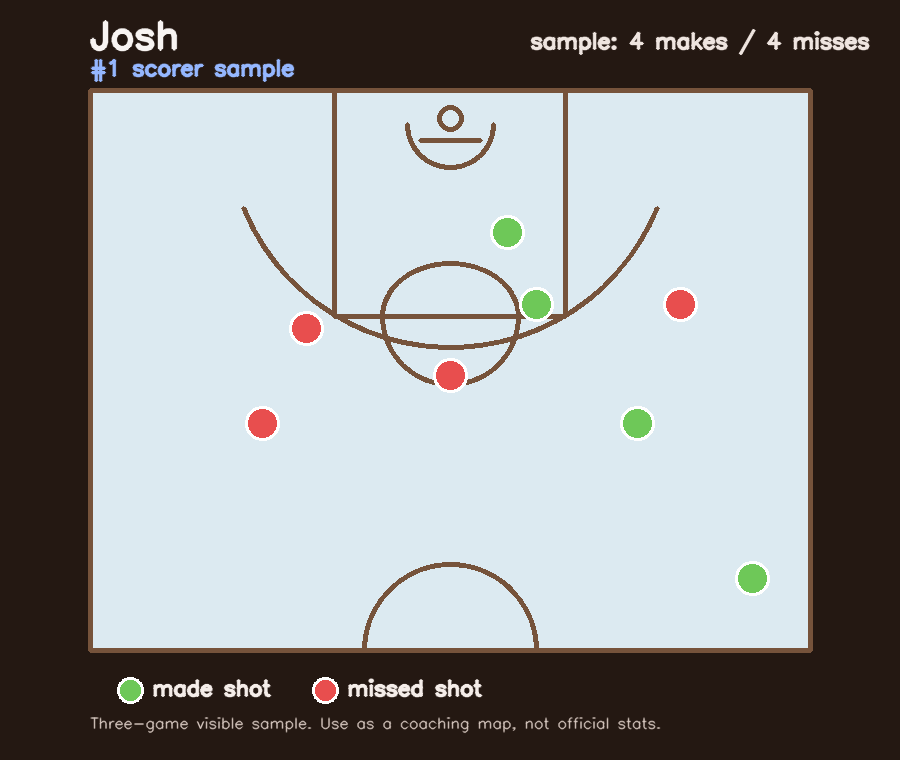
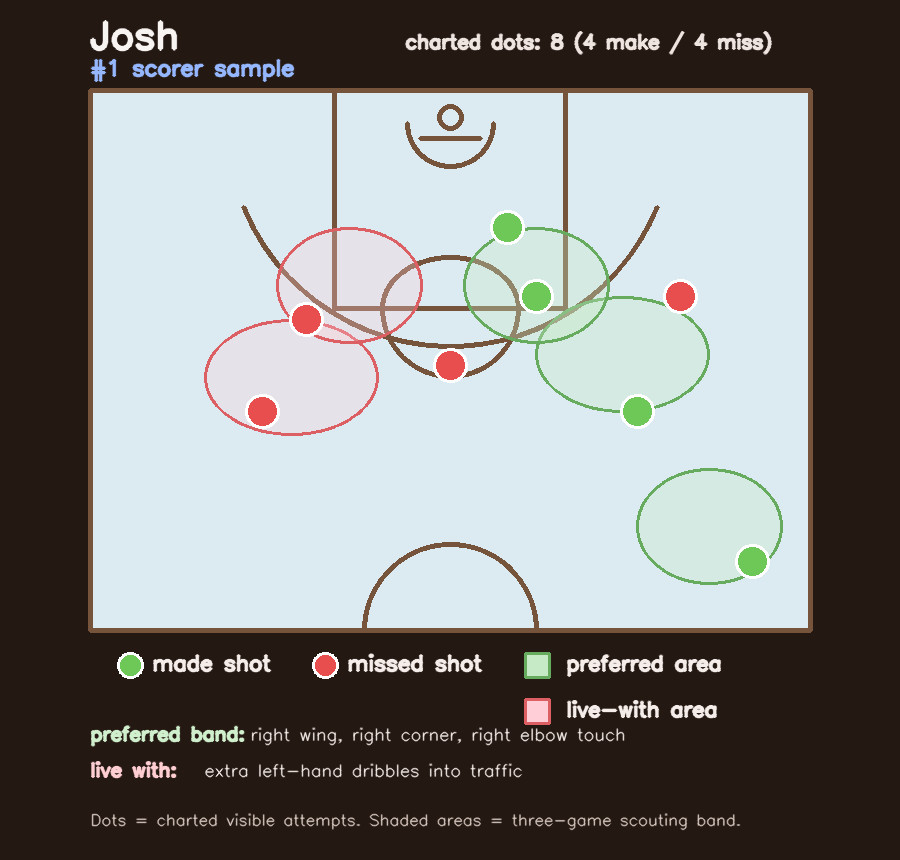
Upgrade scouting charts with zone overlays

diff --git a/index.html b/index.html
@@ -305,10 +305,11 @@
         <p>
           The green and red shot charts below come from the three games you selected, but they are
           still a visible tape sample rather than a full every-attempt hand chart. Green dots are
-          makes, red dots are misses, and the tactical / technical notes are the more important
-          layer right now. As more games come in, update role, shot source, and live-with zones
-          first; photo cleanup can happen later. Jersey numbers above reflect your confirmed map
-          from May 17, 2026.
+          makes, red dots are misses, green shaded areas mark the most reliable scoring bands, and
+          red shaded areas show the shot types or locations we can most comfortably live with.
+          As more games come in, update role, shot source, and live-with zones first; photo
+          cleanup can happen later. Jersey numbers above reflect your confirmed map from May 17,
+          2026.
         </p>
       </section>
     </main>

diff --git a/build_shot_charts.py b/build_shot_charts.py
@@ -10,11 +10,11 @@ DATA_PATH = ROOT / "shot_chart_data.json"
 OUT_DIR = ROOT / "assets" / "plots"
 
 WIDTH = 900
-HEIGHT = 760
+HEIGHT = 860
 MARGIN_X = 90
 MARGIN_TOP = 90
 COURT_W = WIDTH - (MARGIN_X * 2)
-COURT_H = 560
+COURT_H = 540
 
 MAKE_COLOR = (88, 200, 110)
 MISS_COLOR = (78, 78, 232)
@@ -24,6 +24,10 @@ TEXT_DARK = (35, 41, 53)
 TEXT_MID = (86, 93, 112)
 TEXT_LIGHT = (233, 237, 245)
 TEXT_SOFT = (194, 202, 217)
+PREFERRED_FILL = (198, 233, 198)
+PREFERRED_LINE = (95, 171, 103)
+LIVE_FILL = (214, 206, 255)
+LIVE_LINE = (99, 95, 219)
 
 
 def load_data():
@@ -87,7 +91,7 @@ def draw_court(canvas):
 
 
 def draw_legend(canvas):
-    legend_y = 690
+    legend_y = 665
 
     cv2.circle(canvas, (130, legend_y), 12, MAKE_COLOR, -1)
     cv2.circle(canvas, (130, legend_y), 12, (255, 255, 255), 2)
@@ -96,6 +100,40 @@ def draw_legend(canvas):
     cv2.circle(canvas, (325, legend_y), 12, MISS_COLOR, -1)
     cv2.circle(canvas, (325, legend_y), 12, (255, 255, 255), 2)
     cv2.putText(canvas, "missed shot", (347, legend_y + 5), cv2.FONT_HERSHEY_SIMPLEX, 0.7, TEXT_LIGHT, 2, cv2.LINE_AA)
+
+    cv2.rectangle(canvas, (525, legend_y - 12), (549, legend_y + 12), PREFERRED_FILL, -1)
+    cv2.rectangle(canvas, (525, legend_y - 12), (549, legend_y + 12), PREFERRED_LINE, 2)
+    cv2.putText(canvas, "preferred area", (566, legend_y + 5), cv2.FONT_HERSHEY_SIMPLEX, 0.68, TEXT_LIGHT, 2, cv2.LINE_AA)
+
+    cv2.rectangle(canvas, (525, legend_y + 34), (549, legend_y + 58), LIVE_FILL, -1)
+    cv2.rectangle(canvas, (525, legend_y + 34), (549, legend_y + 58), LIVE_LINE, 2)
+    cv2.putText(canvas, "live-with area", (566, legend_y + 51), cv2.FONT_HERSHEY_SIMPLEX, 0.68, TEXT_LIGHT, 2, cv2.LINE_AA)
+
+
+def blend_zone(canvas, zone):
+    overlay = canvas.copy()
+    px, py = court_xy(zone["x"], zone["y"])
+    rx = int((zone["rx"] / 50.0) * COURT_W)
+    ry = int((zone["ry"] / 47.0) * COURT_H)
+
+    if zone["tone"] == "preferred":
+        fill = PREFERRED_FILL
+        line = PREFERRED_LINE
+        alpha = 0.34
+    else:
+        fill = LIVE_FILL
+        line = LIVE_LINE
+        alpha = 0.30
+
+    if zone["shape"] == "ellipse":
+        cv2.ellipse(overlay, (px, py), (rx, ry), 0, 0, 360, fill, -1)
+        cv2.addWeighted(overlay, alpha, canvas, 1 - alpha, 0, canvas)
+        cv2.ellipse(canvas, (px, py), (rx, ry), 0, 0, 360, line, 2)
+
+
+def draw_zone_overlays(canvas, zones):
+    for zone in zones:
+        blend_zone(canvas, zone)
 
 
 def draw_shots(canvas, shots):
@@ -106,35 +144,45 @@ def draw_shots(canvas, shots):
         cv2.circle(canvas, (px, py), 16, (255, 255, 255), 2)
 
 
+def draw_zone_summary(canvas, player_data):
+    cv2.putText(canvas, "preferred band:", (90, 740), cv2.FONT_HERSHEY_SIMPLEX, 0.63, (205, 240, 208), 2, cv2.LINE_AA)
+    cv2.putText(canvas, player_data["preferred_band"], (250, 740), cv2.FONT_HERSHEY_SIMPLEX, 0.56, TEXT_LIGHT, 1, cv2.LINE_AA)
+    cv2.putText(canvas, "live with:", (90, 776), cv2.FONT_HERSHEY_SIMPLEX, 0.63, (211, 206, 255), 2, cv2.LINE_AA)
+    cv2.putText(canvas, player_data["live_with_band"], (204, 776), cv2.FONT_HERSHEY_SIMPLEX, 0.56, TEXT_LIGHT, 1, cv2.LINE_AA)
+    cv2.putText(
+        canvas,
+        "Dots = charted visible attempts. Shaded areas = three-game scouting band.",
+        (90, 825),
+        cv2.FONT_HERSHEY_SIMPLEX,
+        0.52,
+        TEXT_SOFT,
+        1,
+        cv2.LINE_AA,
+    )
+
+
 def render_player(player_key, player_data):
     canvas = np.zeros((HEIGHT, WIDTH, 3), dtype=np.uint8)
     draw_court(canvas)
+    draw_zone_overlays(canvas, player_data["zones"])
     draw_shots(canvas, player_data["shots"])
     draw_legend(canvas)
+    draw_zone_summary(canvas, player_data)
 
     makes = sum(1 for shot in player_data["shots"] if shot["result"] == "make")
     misses = sum(1 for shot in player_data["shots"] if shot["result"] == "miss")
+    total = makes + misses
 
     cv2.putText(canvas, player_data["display_name"], (90, 48), cv2.FONT_HERSHEY_SIMPLEX, 1.25, (242, 244, 248), 3, cv2.LINE_AA)
     cv2.putText(canvas, player_data["sample_note"], (90, 75), cv2.FONT_HERSHEY_SIMPLEX, 0.72, (255, 183, 149), 2, cv2.LINE_AA)
     cv2.putText(
         canvas,
-        f"sample: {makes} makes / {misses} misses",
-        (530, 48),
+        f"charted dots: {total} ({makes} make / {misses} miss)",
+        (405, 48),
         cv2.FONT_HERSHEY_SIMPLEX,
-        0.72,
+        0.64,
         (224, 229, 239),
         2,
-        cv2.LINE_AA,
-    )
-    cv2.putText(
-        canvas,
-        "Three-game visible sample. Use as a coaching map, not official stats.",
-        (90, 728),
-        cv2.FONT_HERSHEY_SIMPLEX,
-        0.5,
-        TEXT_SOFT,
-        1,
         cv2.LINE_AA,
     )
 

diff --git a/README.md b/README.md
@@ -22,6 +22,7 @@ Local scout build for the Lions core group, now updated as a three-game tactical
 
 - The page currently uses only the 3 games above, per your confirmed scope.
 - The make/miss plots are still a visible tape sample, not yet a full every-attempt hand chart from all 3 games.
+- The chart is now a hybrid read: real green/red shot dots plus shaded preferred scoring bands and live-with zones.
 - The tactical and technical notes are the priority layer right now: offensive role, preferred scoring bands, live-with zones, and coverage calls.
 
 ## How to open
